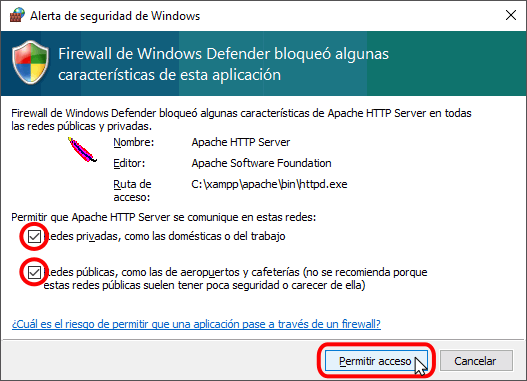
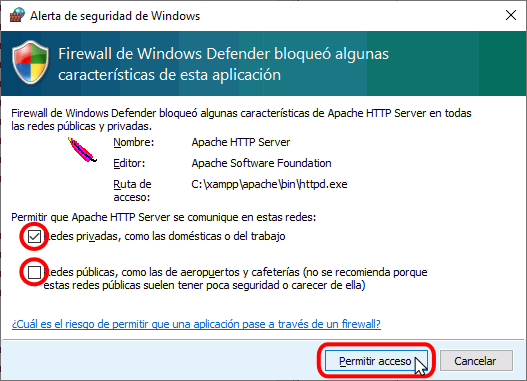
XAMPP Instalación Windows: Retoco la explicación del cortafuegos

diff --git a/otros/xampp-instalacion-windows.html b/otros/xampp-instalacion-windows.html
@@ -284,15 +284,17 @@
     <section id="firewall">
       <h3>El cortafuegos de Windows</h3>
 
-      <p>Cuando se pone en marcha por primera vez cualquiera de los servidores que instala XAMPP, el cortafuegos de Windows pide al usuario confirmación de la autorización.</p>
+      <p>El cortafuegos de Windows es el encargado de filtrar las peticiones exteriores a nuestro equipo, por ejemplo cuando desde el navegador de otro ordenador de la red local en la que nos encontramos alguien quiere abrir páginas alojadas en nuestro servidor.</p>
 
-      <p>Por ejemplo, la primera vez que se pone en marcha Apache mediante el botón Start correspondiente ...</p>
+      <p>El cortafuegos de Windows filtra las conexiones de acuerdo con las reglas de entrada que haya establecidas. Por ello, cuando se pone en marcha por primera vez cualquiera de los servidores que instala XAMPP, el cortafuegos de Windows pregunta al usuario si quiere autorizar o no las conexiones desde el exterior para ese servidor en concreto (Apache, MariaDB, etc.) .</p>
+
+      <p>Así, la primera vez que se pone en marcha Apache después de la instalación mediante el botón Start correspondiente ...</p>
 
       <p class="captura">
         <img src="../img/xampp/xampp-control-panel-firewall-01.png" alt="XAMPP - Panel de control" title="XAMPP - Arrancar Apache" width="668" height="434">
       </p>
 
-      <p>... como es la primera vez que Apache abre puertos en el ordenador, el cortafuegos de Windows pregunta al usuario en qué perfiles de red se permitirá que Apache se comunique con otros equipos. Si lo permitimos, otros equipos de la misma red local podrán ver páginas en nuestro servidor.</p>
+      <p>... el cortafuegos de Windows pregunta al usuario en qué perfiles de red (privado o público) se permitirá que Apache se comunique con otros equipos. Si lo permitimos (marcando la casilla), otros equipos de la misma red local podrán ver páginas en nuestro servidor, pero si no lo permitimos (dejando la casilla sin marcar), las peticiones del exterior no llegarán al servidor.</p>
 
       <p class="captura">
         <img src="../img/xampp/xampp-control-panel-firewall-02.png" alt="XAMPP - Aviso del cortafuegos de Windows" title="XAMPP - Aviso del cortafuegos de Windows" width="527" height="381">
@@ -304,17 +306,23 @@
         <img src="../img/xampp/windows-configuracion-perfil-red-1.png" alt="Windows - Perfil de red" title="XAMPP - Windows - Perfil de red" width="1024" height="450">
       </p>
 
-      <p>Se abrirá la pantalla del perfil de red, en la que podremos ver si nuestro perfil de red es red pública o red privada:</p>
+      <p>Se abrirá la pantalla del perfil de red, en la que podremos ver si nuestro perfil de red es público o privado:</p>
 
       <p class="captura">
         <img src="../img/xampp/windows-configuracion-perfil-red-2.png" alt="Windows - Perfil de red" title="XAMPP - Windows - Perfil de red" width="1024" height="410">
       </p>
 
-      <p>En principio, sería suficiente con autorizar el perfil que tengamos seleccionado (sea este público o privado). pero también podemos autorizar ambos perfiles para que Apache sea siempre accesible independientemente del perfil:</p>
+      <p>En principio, sería suficiente con autorizar el perfil que tengamos seleccionado (sea este público o privado):</p>
 
       <p class="captura">
         <img src="../img/xampp/xampp-control-panel-firewall-03.png" alt="XAMPP - Aviso del cortafuegos de Windows" title="XAMPP - Aviso del cortafuegos de Windows" width="527" height="381">
       </p>
+
+      <p>Tenga en cuenta que si autoriza únicamente uno de los dos perfiles y posteriormente cambia el perfil de red, el cortafuegos de Windows no le preguntará si autoriza el acceso a este perfil hasta que no se reinicie Apache. Lógicamente, si autorizamos ambos perfiles, Apache será siempre accesible independientemente del perfil.</p>
+
+      <p>Tenga en cuenta también que la ventana que solicita autorización crea siempre reglas de entrada en el cortafuegos para el perfil de red actual. Si se marca la casilla y se permite el acceso, se creará una regla permitiendo el acceso, pero si la casilla se desmarca o si se cancela o cierra la ventana, se creará una regla denegando el acceso.</p>
+
+      <hr class="corta">
 
       <p>Si el arranque de Apache tiene éxito, el panel de control mostrará el nombre del módulo con fondo verde, su identificador de proceso, los puertos abiertos (http y https), el botón "Start" se convertirá en el botón "Stop" y en la zona de notificación se verá el resultado de las operaciones realizadas.</p>
 
@@ -322,7 +330,7 @@
         <img src="../img/xampp/xampp-control-panel-firewall-04.png" alt="XAMPP - Apache arrancado" title="XAMPP - Apache arrancado" width="668" height="434">
       </p>
 
-      <p>Si se abre el programa "Windows Defender Firewall con seguridad avanzada", en el apartado de Reglas de entrada se puede ver las nuevas reglas añadidas.</p>
+      <p>Si se abre el programa "Windows Defender Firewall con seguridad avanzada", en el apartado de Reglas de entrada se pueden ver las nuevas reglas añadidas (una para cada protocolo, TCP o UDP).</p>
 
       <p class="captura">
         <img src="../img/xampp/xampp-control-panel-firewall-05.png" alt="XAMPP - Cortafuegos de Windows" title="XAMPP - Cortafuegos de Windows" width="1182" height="200">
@@ -330,15 +338,15 @@
 
       <hr class="corta">
 
-      <p>Si observamos que Apache no es accesible desde otros ordenadores de nuestra red pero sí desde el propio ordenador, seguramente es que sólo están autorizadas las conexiones para el perfil distinto al actual.</p>
+      <p>Tenga en cuenta que el cortafuegos de Windows sólo mostrará la ventana solicitando autorización la primera vez que se inicie Apache en un perfil de red para el que no se hayan establecido anteriormente las reglas de entrada. Si posteriormente se desean modificar o eliminar las autorizaciones, tendremos que hacerlo con el programa "Windows Defender Firewall con seguridad avanzada".</p>
 
-      <p>Abriendo el programa "Windows Defender Firewall con seguridad avanzada", en el apartado de Reglas de entrada seguramente podremos las reglas de Apache que bloquean el acceso a nuestro perfil de red..</p>
+      <p>Abriendo el programa "Windows Defender Firewall con seguridad avanzada", en el apartado de Reglas de entrada podremos ver las reglas de Apache que bloquean el acceso a nuestro perfil de red.</p>
 
       <p class="captura">
         <img src="../img/xampp/xampp-control-panel-firewall-06.png" alt="XAMPP - Cortafuegos de Windows" title="XAMPP - Cortafuegos de Windows" width="1047" height="240">
       </p>
 
-      <p>Para permitir la conexión, basta con hacer clic derecho sobre la regla, elegir en el menú contextual la opción Propiedades y en la pestaña General hacer clic en Permitir la conexión y en Aceptar.</p>
+      <p>Para permitir una conexión que estaba bloqueada, basta con hacer clic derecho sobre la regla, elegir en el menú contextual la opción Propiedades y en la pestaña General hacer clic en Permitir la conexión y en Aceptar.</p>
 
       <p class="captura">
         <img src="../img/xampp/xampp-control-panel-firewall-07.png" alt="XAMPP - Cortafuegos de Windows" title="XAMPP - Cortafuegos de Windows" width="1047" height="600">
@@ -446,7 +454,7 @@
   </section>
 
   <footer>
-    <p class="ultmod">Última modificación de esta página: 22 de septiembre de 2021</p>
+    <p class="ultmod">Última modificación de esta página: 23 de septiembre de 2021</p>
 
     <p class="licencia">
       <a rel="license" href="https://creativecommons.org/licenses/by-sa/4.0/deed.es_ES"><img src="../varios/iconos/icono-cc-by-sa.svg" alt="Licencia Creative Commons" title="Licencia Creative Commons BY-SA" width="120" height="42"></a><br>
